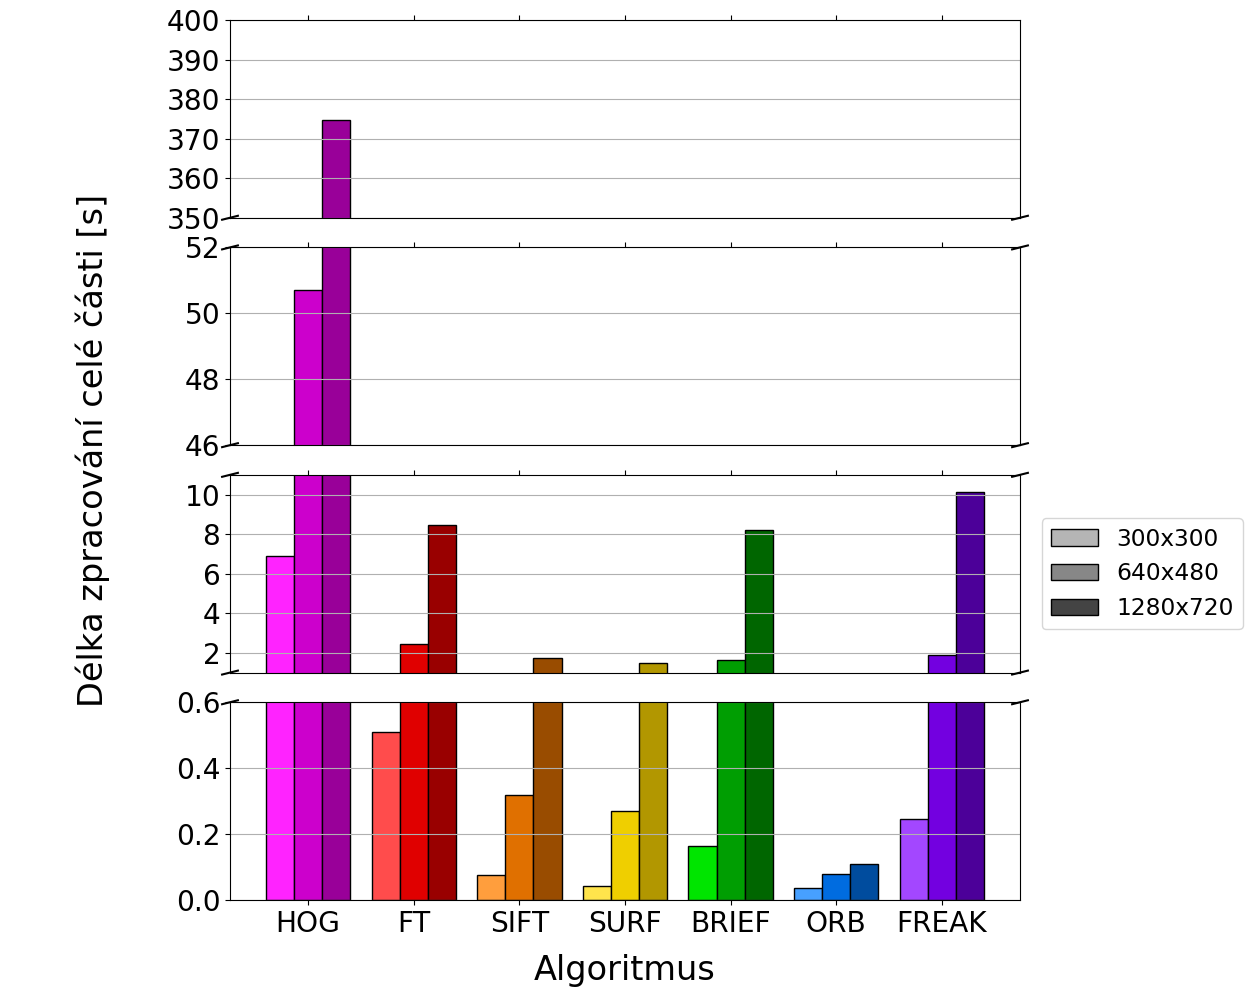
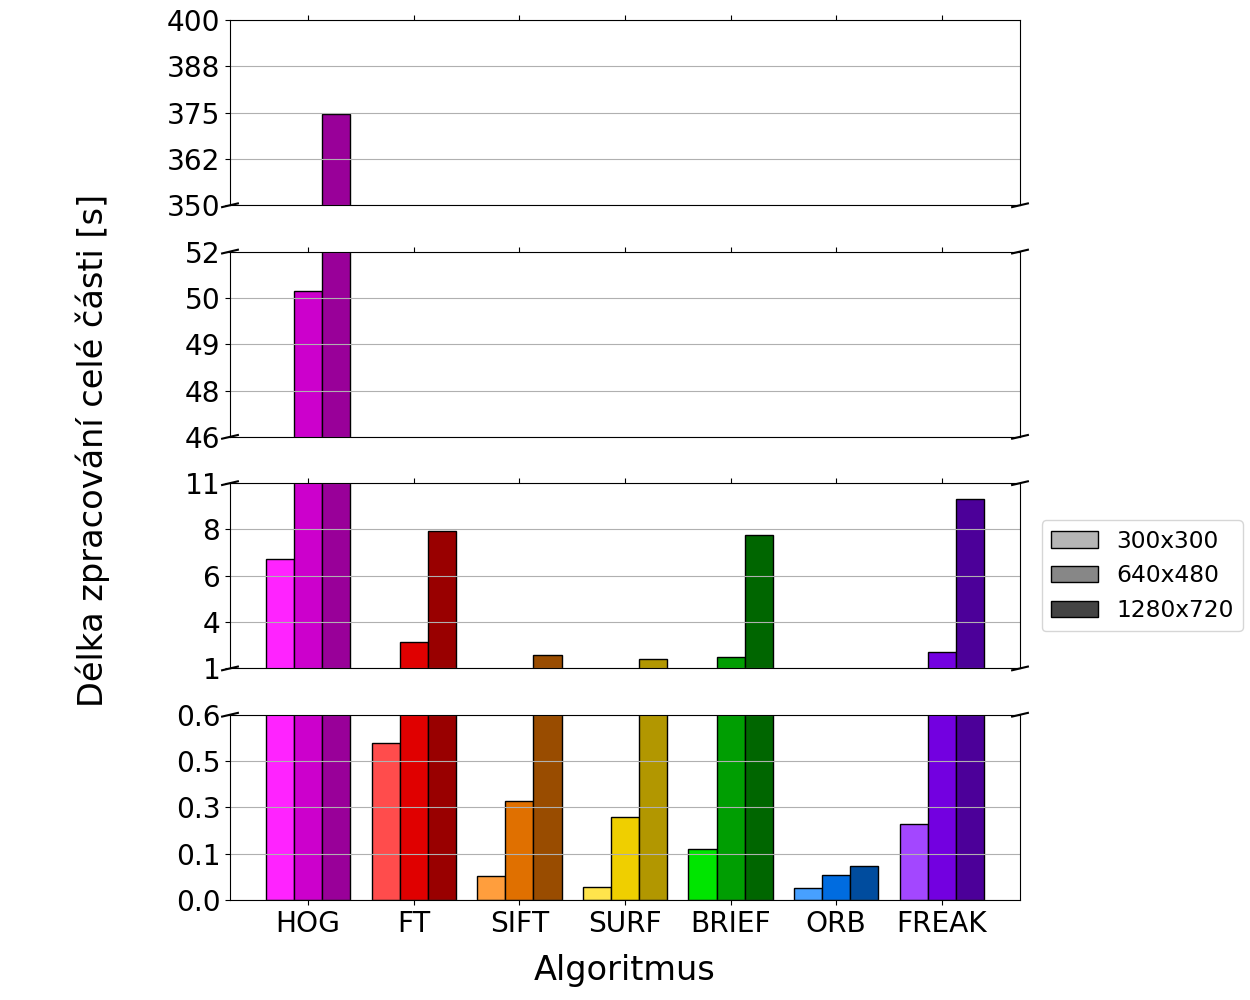
Adjusted tick locations and spacing between subplots

diff --git a/src/scripts/charts/generateCharts3.py b/src/scripts/charts/generateCharts3.py
@@ -126,7 +126,7 @@ def accuracy(title=False, filename=None, show=False):
     for tick in axis.get_yticklabels():
         tick.set_fontsize("x-large")
     axis.yaxis.set_major_formatter(FuncFormatter(PERCENTAGE_FORMATTER))
-
+    axis.yaxis.set_major_locator(plt.MultipleLocator(0.1))
     # up to 3 bars (sizes), 0.8 is default and leaves a little room between algorithms
     barWidth = 0.8 / 3
     hW = barWidth / 2
@@ -163,7 +163,7 @@ def partDescriptorTime(title=False, filename=None, show=False):
     for tick in axis.get_yticklabels():
         tick.set_fontsize("x-large")
     axis.set_ylim(0, 30)
-
+    axis.yaxis.set_major_locator(plt.MultipleLocator(2.5))
     # up to 3 bars (sizes), 0.8 is default and leaves a little room between algorithms
     barWidth = 0.8 / 3
     hW = barWidth / 2
@@ -207,6 +207,9 @@ def imageDescriptorTime(title=False, filename=None, show=False):
     # up to 3 bars (sizes), 0.8 is default and leaves a little room between algorithms
     barWidth = 0.8 / 3
     hW = barWidth / 2
+
+    bottom.yaxis.set_major_locator(plt.LinearLocator(8))
+    upper.yaxis.set_major_locator(plt.LinearLocator(8))
 
     bottom.bar(smallX - 2 * hW, smallY, barWidth, color=pickColors(COLORS_300x300, smallX), edgecolor="black")
     drawAcross([bottom, upper], mediumX, mediumY, barWidth, color=pickColors(COLORS_640x480, mediumX), edgecolor="black")
@@ -261,6 +264,11 @@ def partDescriptorSize(title=False, filename=None, show=False):
     upper.yaxis.set_major_formatter(FuncFormatter(SECOND_THOUSAND_FORMATTER))
     top.yaxis.set_major_formatter(FuncFormatter(SECOND_THOUSAND_FORMATTER))
 
+    bottom.yaxis.set_major_locator(plt.LinearLocator(5))
+    middle.yaxis.set_major_locator(plt.LinearLocator(5))
+    upper.yaxis.set_major_locator(plt.LinearLocator(5))
+    top.yaxis.set_major_locator(plt.LinearLocator(5))
+
     drawAcross([bottom, middle], smallX - 2 * hW, smallY, barWidth, color=pickColors(COLORS_300x300, smallX), edgecolor="black")
     drawAcross([bottom, middle, upper], mediumX, mediumY, barWidth, color=pickColors(COLORS_640x480, mediumX), edgecolor="black")
     drawAcross([bottom, middle, upper, top], largeX + 2 * hW, largeY, barWidth, color=pickColors(COLORS_1280x720, largeX), edgecolor="black")
@@ -274,7 +282,7 @@ def partDescriptorSize(title=False, filename=None, show=False):
     drawAxisSplitters(bottom, middle, upper, top)
 
     topMargin = TOP_MARGIN_TITLE if title else TOP_MARGIN_NO_TITLE
-    plt.subplots_adjust(**transformMargins(top=topMargin, pictureSize=PICTURE_SIZE, **DEFAULT_MARGINS), hspace=0.15)
+    plt.subplots_adjust(**transformMargins(top=topMargin, pictureSize=PICTURE_SIZE, **DEFAULT_MARGINS), hspace=0.25)
 
     if filename:
         plt.savefig(os.path.abspath(f"{OUTPUT_DIR}/{filename}"))
@@ -314,6 +322,10 @@ def imageDescriptorSize(title=False, filename=None, show=False):
     middle.yaxis.set_major_formatter(FuncFormatter(SECOND_THOUSAND_FORMATTER))
     upper.yaxis.set_major_formatter(FuncFormatter(SECOND_THOUSAND_FORMATTER))
     top.yaxis.set_major_formatter(FuncFormatter(SECOND_THOUSAND_FORMATTER))
+    bottom.yaxis.set_major_locator(plt.LinearLocator(5))
+    middle.yaxis.set_major_locator(plt.LinearLocator(5))
+    upper.yaxis.set_major_locator(plt.LinearLocator(5))
+    top.yaxis.set_major_locator(plt.LinearLocator(5))
 
     drawAcross([bottom, middle], smallX - 2 * hW, smallY, barWidth, color=pickColors(COLORS_300x300, smallX), edgecolor="black")
     drawAcross([bottom, middle, upper], mediumX, mediumY, barWidth, color=pickColors(COLORS_640x480, mediumX), edgecolor="black")
@@ -328,7 +340,7 @@ def imageDescriptorSize(title=False, filename=None, show=False):
     drawAxisSplitters(bottom, middle, upper, top)
 
     topMargin = TOP_MARGIN_TITLE if title else TOP_MARGIN_NO_TITLE
-    plt.subplots_adjust(**transformMargins(top=topMargin, pictureSize=PICTURE_SIZE, **DEFAULT_MARGINS), hspace=0.15)
+    plt.subplots_adjust(**transformMargins(top=topMargin, pictureSize=PICTURE_SIZE, **DEFAULT_MARGINS), hspace=0.25)
 
     if filename:
         plt.savefig(os.path.abspath(f"{OUTPUT_DIR}/{filename}"))
@@ -364,6 +376,11 @@ def matching(title=False, filename=None, show=False):
     barWidth = 0.8 / 3
     hW = barWidth / 2
 
+    bottom.yaxis.set_major_locator(plt.LinearLocator(5))
+    middle.yaxis.set_major_locator(plt.LinearLocator(5))
+    upper.yaxis.set_major_locator(plt.LinearLocator(5))
+    top.yaxis.set_major_locator(plt.LinearLocator(5))
+
     drawAcross([bottom, middle], smallX - 2 * hW, smallY, barWidth, color=pickColors(COLORS_300x300, smallX), edgecolor="black")
     drawAcross([bottom, middle, upper], mediumX, mediumY, barWidth, color=pickColors(COLORS_640x480, mediumX), edgecolor="black")
     drawAcross([bottom, middle, upper, top], largeX + 2 * hW, largeY, barWidth, color=pickColors(COLORS_1280x720, largeX), edgecolor="black")
@@ -377,7 +394,7 @@ def matching(title=False, filename=None, show=False):
     drawAxisSplitters(bottom, middle, upper, top)
 
     topMargin = TOP_MARGIN_TITLE if title else TOP_MARGIN_NO_TITLE
-    plt.subplots_adjust(**transformMargins(top=topMargin, pictureSize=PICTURE_SIZE, **DEFAULT_MARGINS), hspace=0.15)
+    plt.subplots_adjust(**transformMargins(top=topMargin, pictureSize=PICTURE_SIZE, **DEFAULT_MARGINS), hspace=0.25)
 
     if filename:
         plt.savefig(os.path.abspath(f"{OUTPUT_DIR}/{filename}"))
@@ -418,6 +435,11 @@ def partProcess(title=False, filename=None, show=False):
     upper.yaxis.set_major_formatter(FuncFormatter(DECIMAL_SECOND_FORMATTER))
     top.yaxis.set_major_formatter(FuncFormatter(DECIMAL_SECOND_FORMATTER))
 
+    bottom.yaxis.set_major_locator(plt.LinearLocator(5))
+    middle.yaxis.set_major_locator(plt.LinearLocator(5))
+    upper.yaxis.set_major_locator(plt.LinearLocator(5))
+    top.yaxis.set_major_locator(plt.LinearLocator(5))
+
     drawAcross([bottom, middle], smallX - 2 * hW, smallY, barWidth, color=pickColors(COLORS_300x300, smallX), edgecolor="black")
     drawAcross([bottom, middle, upper], mediumX, mediumY, barWidth, color=pickColors(COLORS_640x480, mediumX), edgecolor="black")
     drawAcross([bottom, middle, upper, top], largeX + 2 * hW, largeY, barWidth, color=pickColors(COLORS_1280x720, largeX), edgecolor="black")
@@ -431,7 +453,7 @@ def partProcess(title=False, filename=None, show=False):
     drawAxisSplitters(bottom, middle, upper, top)
 
     topMargin = TOP_MARGIN_TITLE if title else TOP_MARGIN_NO_TITLE
-    plt.subplots_adjust(**transformMargins(top=topMargin, pictureSize=PICTURE_SIZE, **DEFAULT_MARGINS), hspace=0.15)
+    plt.subplots_adjust(**transformMargins(top=topMargin, pictureSize=PICTURE_SIZE, **DEFAULT_MARGINS), hspace=0.25)
 
     if filename:
         plt.savefig(os.path.abspath(f"{OUTPUT_DIR}/{filename}"))
@@ -461,6 +483,11 @@ def totalTime(title=False, filename=None, show=False):
     upper.yaxis.set_major_formatter(FuncFormatter(SECOND_THOUSAND_FORMATTER))
     top.yaxis.set_major_formatter(FuncFormatter(SECOND_THOUSAND_FORMATTER))
 
+    bottom.yaxis.set_major_locator(plt.LinearLocator(5))
+    middle.yaxis.set_major_locator(plt.LinearLocator(5))
+    upper.yaxis.set_major_locator(plt.LinearLocator(5))
+    top.yaxis.set_major_locator(plt.LinearLocator(5))
+
     bottom.set_ylim(0, 30000)
     middle.set_ylim(60000, 130000)
     middle.xaxis.tick_top()
@@ -485,7 +512,7 @@ def totalTime(title=False, filename=None, show=False):
     drawAxisSplitters(bottom, middle, upper, top)
 
     topMargin = TOP_MARGIN_TITLE if title else TOP_MARGIN_NO_TITLE
-    plt.subplots_adjust(**transformMargins(top=topMargin, pictureSize=PICTURE_SIZE, **DEFAULT_MARGINS), hspace=0.15)
+    plt.subplots_adjust(**transformMargins(top=topMargin, pictureSize=PICTURE_SIZE, **DEFAULT_MARGINS), hspace=0.25)
 
     if filename:
         plt.savefig(os.path.abspath(f"{OUTPUT_DIR}/{filename}"))
